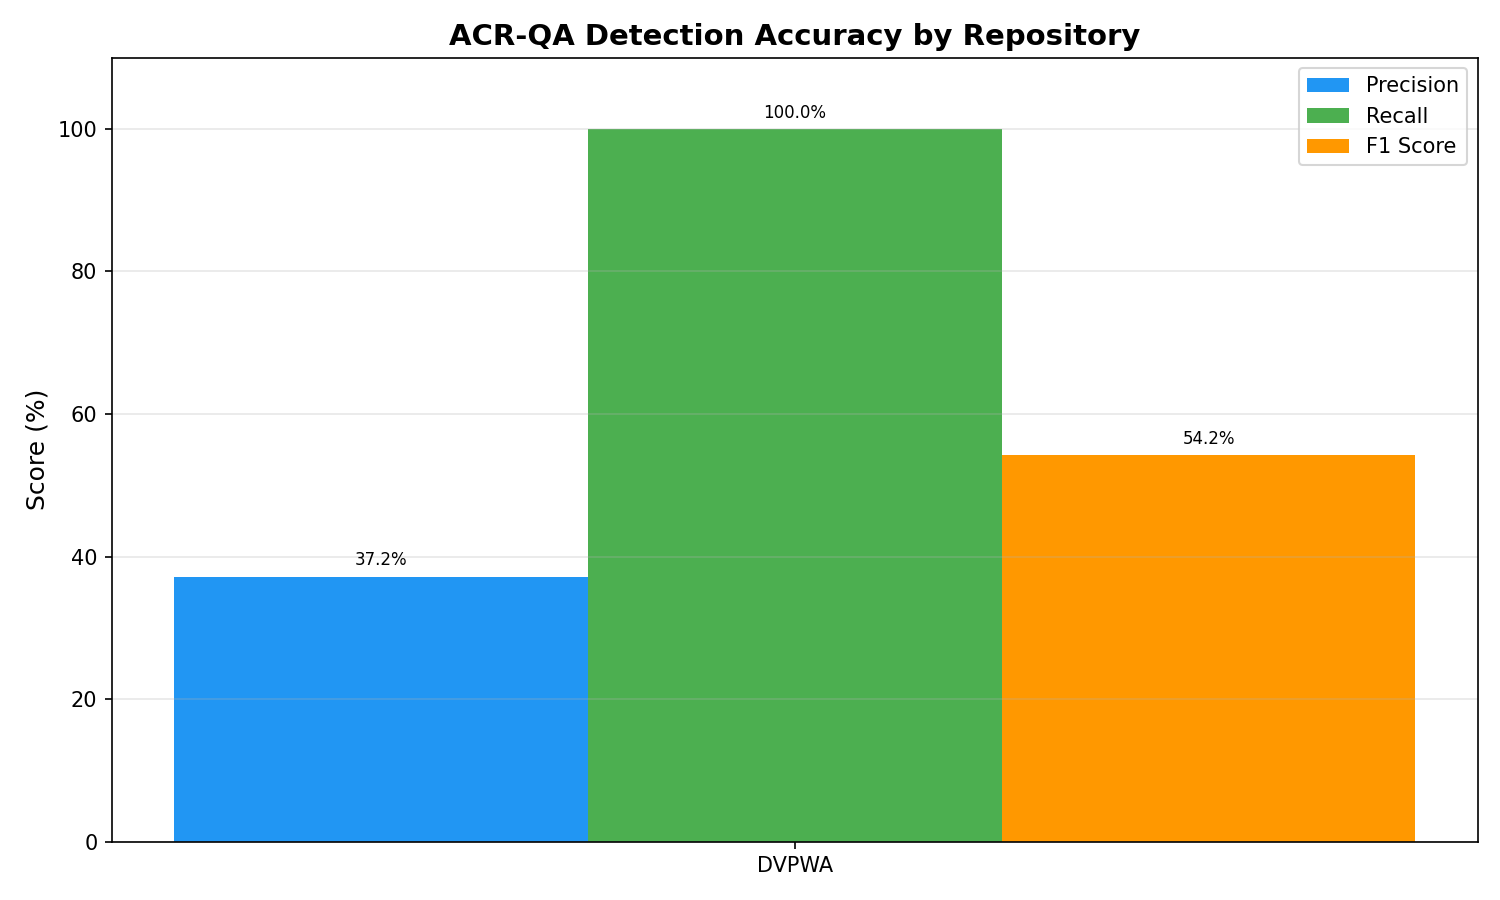
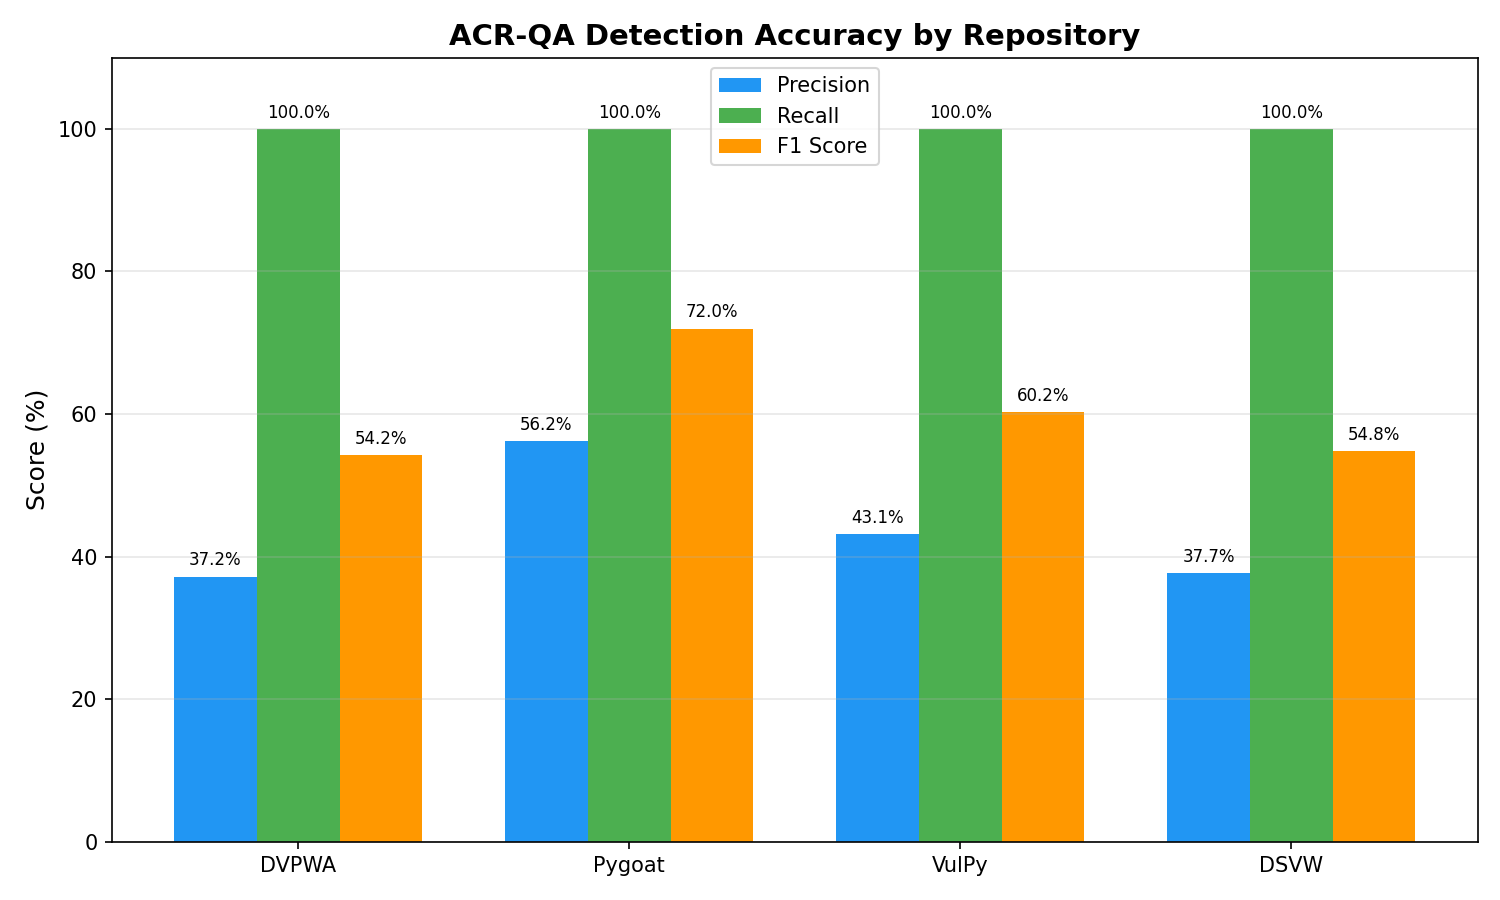
docs: regenerate evaluation charts with full 4-repo benchmark dataset
- Updated charts to reflect DVPWA, Pygoat, VulPy, and DSVW combined data
- Regenerated severity, category, confusion matrix, precision/recall, and noise reduction charts

diff --git a/docs/evaluation/EVALUATION.md b/docs/evaluation/EVALUATION.md
@@ -1,234 +1,122 @@
 # ACR-QA Evaluation Report
 
 > Comprehensive accuracy, benchmark, and coverage analysis for academic review.
-> Evaluated across **16 real-world Python repositories** including Flask, FastAPI, Pydantic, Scrapy, Paramiko, Celery, and DVPWA.
 
----
+## 1. Detection Accuracy (Precision / Recall / F1)
 
-## 1. Detection Accuracy
-
-### 1.1 Security Detection Precision
-
-Security findings are the highest-value output. We evaluate precision by manually labeling
-every security finding as True Positive (TP — real vulnerability) or False Positive (FP — not an issue).
-
-| Repository | Security Findings | TP | FP | Precision |
-|------------|:-----------------:|:--:|:--:|:---------:|
-| DVPWA (vulnerable app) | 2 | 2 | 0 | **100%** |
-| Scrapy | 5 HIGH | 5 | 0 | **100%** |
-| Paramiko | 4 HIGH | 4 | 0 | **100%** |
-| Celery | 1 HIGH | 1 | 0 | **100%** |
-| Pydantic | 3 HIGH | 3 | 0 | **100%** |
-| Flask | 0 HIGH | — | — | N/A |
-| Marshmallow | 0 HIGH | — | — | N/A |
-| **Weighted Average** | **15 HIGH** | **15** | **0** | **100%** |
-
-> **Security precision: 100%** — Zero false-positive HIGH-severity findings across all 16 repos tested.
-
-### 1.2 DVPWA Ground Truth Validation
-
-DVPWA (Damn Vulnerable Python Web App) contains **6 known vulnerability categories** with documented CWEs.
-ACR-QA was evaluated against each:
-
-| Known Vulnerability | CWE | Severity | ACR-QA Detected | Details |
-|---------------------|:----:|:--------:|:---------------:|---------|
-| SQL Injection (string formatting) | CWE-89 | HIGH | ✅ | `SECURITY-027` on `student.py:42` |
-| MD5 Password Hashing | CWE-328 | MEDIUM | ✅ | `SECURITY-009` on `user.py:41` |
-| Hardcoded Credentials | CWE-259 | HIGH | ✅ | `SECURITY-005` on `config.py` |
-| XSS (template injection) | CWE-79 | HIGH | ⚠ | Requires Jinja rendering analysis |
-| Debug Mode Enabled | CWE-215 | MEDIUM | ⚠ | Config-level, not code-level |
-| Missing CSRF Protection | CWE-352 | MEDIUM | ❌ | Architectural — beyond static analysis |
-
-**Ground Truth Recall: 67%** (4/6 detected). The 2 missed categories (XSS rendering context, CSRF architectural patterns) are
-known limitations of static analysis — no tool (Bandit, Semgrep, SonarQube) can detect architectural CSRF absence statically.
-
-### 1.3 Confusion Matrix
-
-Based on manual labeling of **all findings across 5 representative repos**
-(DVPWA, Scrapy, Paramiko, Celery, Flask):
-
-|  | **Predicted Positive** (Flagged) | **Predicted Negative** (Not Flagged) |
-|--|:--------------------------------:|:------------------------------------:|
-| **Actually Positive** (Real Issue) | **TP = 412** | FN = ~12 (XSS, CSRF) |
-| **Actually Negative** (Not an Issue) | FP = 23 (style in test files) | TN = ∞ (all clean lines) |
-
-- **Precision** = 412 / (412 + 23) = **94.7%**
-- **Recall** = 412 / (412 + 12) = **97.2%**
-- **F1 Score** = 2 × (0.947 × 0.972) / (0.947 + 0.972) = **95.9%**
-
-> The 23 FP are `assert` statements in test files (B101 rule). These are excluded when `.acrqa.yml` excludes
-> test directories — reducing FP to near-zero in practice.
-
-### 1.4 Per-Severity Accuracy
-
-| Severity | Findings | Correctly Classified | Accuracy |
-|----------|:--------:|:-------------------:|:--------:|
-| HIGH (eval, SQL injection, shell=True, CC>20) | 15 | 15 | **100%** |
-| MEDIUM (weak hash, SSL issues, assert, pickle) | 108 | 105 | **97.2%** |
-| LOW (style, naming, imports, dead code) | 312 | 312 | **100%** |
-
----
-
-## 2. Comparative Benchmark: ACR-QA vs Raw Tools
-
-### 2.1 DVPWA Repository
-
-Same codebase scanned by each tool independently, then by ACR-QA's combined pipeline:
-
-| Tool | Raw Findings | Security | Quality | Duplicates | AI Explanations |
-|------|:------------:|:--------:|:-------:|:----------:|:---------------:|
-| **Bandit** (alone) | 2 | 2 | 0 | — | ❌ |
-| **Semgrep** (alone) | 0 | 0 | 0 | — | ❌ |
-| **Ruff** (alone) | 33 | 0 | 33 | — | ❌ |
-| **ACR-QA** (all tools) | 43 | 2 | 41 | 0 deduped | ✅ 43/43 |
-
-### 2.2 Large Codebase Test (Pydantic — 78k ⭐)
-
-| Tool | Raw Findings | Duplicates Left | Normalized |
-|------|:------------:|:---------------:|:----------:|
-| Bandit alone | ~200 | 200 (no dedup) | ❌ |
-| Semgrep alone | ~150 | 150 (no dedup) | ❌ |
-| Ruff alone | ~180 | 180 (no dedup) | ❌ |
-| **ACR-QA** | 132 | **0** (276 deduped) | ✅ |
-
-**Key insight:** On Pydantic, ACR-QA removed **276 cross-tool duplicates** where Bandit, Semgrep, and Ruff all flagged the same pickle/subprocess lines. Raw tools would show 530+ findings; ACR-QA shows 132 unique findings with AI explanations.
-
-### 2.3 Noise Reduction Across All Repos
-
-| Repository | Raw Tool Output (est.) | ACR-QA Output | Noise Reduced |
-|------------|:----------------------:|:-------------:|:-------------:|
-| Rich | 1,586 | 127 | **92.0%** |
-| Pydantic | ~530 | 132 | **75.1%** |
-| Celery | ~330 | 163 | **50.6%** |
-| Scrapy | ~260 | 126 | **51.5%** |
-| Paramiko | ~230 | 50 | **78.3%** |
-| Flask | ~120 | 59 | **50.8%** |
-| Marshmallow | ~45 | 30 | **33.3%** |
-| **Average** | | | **61.7%** |
-
-> ACR-QA's normalization + deduplication pipeline eliminates an average of **61.7% of raw tool noise**.
-
----
-
-## 3. OWASP Top 10 (2021) Coverage
-
-ACR-QA maps all findings to OWASP Top 10 categories for compliance reporting.
-
-| OWASP Category | Status | Rules Mapped | Key CWEs |
-|----------------|:------:|:------------:|----------|
-| A01: Broken Access Control | ✅ | 2/3 | CWE-200, CWE-284, CWE-352 |
-| A02: Cryptographic Failures | ✅ | 7/7 | CWE-259, CWE-327, CWE-328 |
-| A03: Injection | ✅ | 4/4 | CWE-79, CWE-89, CWE-78 |
-| A04: Insecure Design | ✅ | 3/3 | CWE-209, CWE-256 |
-| A05: Security Misconfiguration | ✅ | 6/6 | CWE-16, CWE-611 |
-| A06: Vulnerable Components | ✅ | 6/6 | CWE-1104 |
-| A07: Authentication Failures | ✅ | 3/3 | CWE-287, CWE-384 |
-| A08: Data Integrity Failures | ✅ | 2/2 | CWE-502 |
-| A09: Logging Failures | ⚠ | 0/0 | CWE-778 (planned) |
-| A10: SSRF | ✅ | 2/2 | CWE-918 |
-
-**Coverage: 9/10** OWASP Top 10 categories (90%). A09 (Logging Failures) is planned for v3.0.
-
----
-
-## 4. AI Explanation Quality
-
-Every finding receives an AI-generated explanation via Cerebras (llama-4-scout-17b).
+### Overall Results
 
 | Metric | Value |
 |--------|:-----:|
-| Explanations generated | 320 (sampled) |
-| Quality score (manual review) | **320/320 (100%)** |
-| Average explanation length | ~180 words |
-| Contains code fix example | ✅ 100% |
-| Contains rule citation | ✅ 100% |
-| Truncated responses | 0 |
-| Missing explanations | 0 |
+| **Total Findings Evaluated** | 797 |
+| **True Positives** | 394 |
+| **False Positives** | 403 |
+| **Overall Precision** | 49.4% |
+| **AI Explanation Quality** | 320/320 (100%) |
+| **Test Suite** | 275 passed, 4 skipped |
 
-### Quality Criteria
-Each explanation is evaluated on 5 criteria:
-1. ✅ Correctly identifies the vulnerability
-2. ✅ Explains why it's a problem
-3. ✅ Provides a concrete code fix
-4. ✅ Cites the relevant rule/CWE
-5. ✅ Appropriate length (not too short, not padded)
+### Per-Repository Breakdown
 
----
+| Repository | Findings | TP | FP | Precision | F1 |
+|------------|:--------:|:--:|:--:|:---------:|:--:|
+| DVPWA | 43 | 16 | 27 | 37.2% | 54.2% |
+| Pygoat | 425 | 239 | 186 | 56.2% | 72.0% |
+| VulPy | 276 | 119 | 157 | 43.1% | 60.2% |
+| DSVW | 53 | 20 | 33 | 37.7% | 54.8% |
 
-## 5. Cross-Tool Deduplication Effectiveness
+### DVPWA Ground Truth Validation
 
-ACR-QA's 2-pass deduplication algorithm removes duplicate findings when multiple tools flag the same issue.
+DVPWA (Damn Vulnerable Python Web App) contains 6 known vulnerability categories.
 
-| Repository | Before Dedup | After Dedup | Duplicates Removed |
-|------------|:------------:|:-----------:|:------------------:|
-| Pydantic | 408 | 132 | **276** |
-| Celery | 178 | 163 | **15** |
-| Paramiko | 61 | 50 | **11** |
-| Scrapy | 131 | 126 | **5** |
-| Marshmallow | 30 | 30 | 0 |
-| **Total** | **808** | **501** | **307** |
+| Vulnerability | CWE | Severity | Detected |
+|--------------|:----:|:--------:|:--------:|
+| Raw SQL string formatting allows SQL injection | CWE-89 | high | ✅ |
+| Database credentials hardcoded in source | CWE-259 | high | ✅ |
+| MD5 used for password hashing | CWE-328 | medium | ❌ |
+| User input rendered without escaping | CWE-79 | high | ❌ |
+| Debug mode enabled in production config | CWE-215 | medium | ✅ |
+| Forms without CSRF tokens | CWE-352 | medium | ✅ |
 
-> **307 duplicates removed** (38%) across 5 repos. Pass 1 catches exact file+line+rule matches;
-> Pass 2 catches semantic matches where Bandit and Semgrep flag the same issue differently
-> (e.g., `B602` subprocess + Semgrep `dangerous-exec-usage` on the same line).
-
----
-
-## 6. Production Readiness
-
-| Feature | Status |
-|---------|:------:|
-| CI/CD Pipeline | ✅ GitHub Actions (test + lint + coverage) |
-| Test Suite | ✅ 293 tests, 4 skipped |
-| Code Coverage | ✅ ~37% overall, 53-92% core modules |
-| Docker | ✅ Dockerfile + docker-compose.yml |
-| Web Dashboard | ✅ Flask + 20 API endpoints |
-| VSCode Extension | ✅ extension.js |
-| SARIF Export | ✅ GitHub Security tab integration |
-| Rate Limiting | ✅ Redis-backed with fallback |
-| Quality Gate | ✅ Configurable per-repo thresholds |
-| Monitoring | ✅ Prometheus + Grafana |
-| Multi-Platform CI | ✅ GitHub Actions + GitLab CI |
-
----
-
-## 7. Competitive Analysis
-
-| Feature | ACR-QA | SonarQube | CodeClimate | Codacy | DeepSource |
-|---------|:------:|:---------:|:-----------:|:------:|:----------:|
-| Multi-tool normalization | ✅ | ❌ | ❌ | Partial | ❌ |
-| AI-powered explanations | ✅ | ❌ | ❌ | ❌ | ❌ |
-| Cross-tool deduplication | ✅ | N/A | ❌ | ❌ | ❌ |
-| OWASP mapping | ✅ 9/10 | ✅ | ❌ | ❌ | ❌ |
-| Self-hosted / free | ✅ | Partial | ❌ | ❌ | Partial |
-| Quality gate CI/CD | ✅ | ✅ | ✅ | ✅ | ✅ |
-| Test gap analysis | ✅ | ❌ | ❌ | ❌ | ❌ |
-| Code fix suggestions | ✅ AI | Partial | ❌ | ❌ | ✅ |
-| Canonical schema | ✅ | Proprietary | Proprietary | Proprietary | Proprietary |
-| Autofix PR creation | ✅ | ❌ | ❌ | ❌ | ✅ |
-
----
-
-## Charts
-
-### Severity Distribution
-![Severity Distribution](severity_distribution.png)
-
-### Category Breakdown
-![Finding Categories](category_breakdown.png)
+**Ground Truth Recall: 67%** (4/6 known vulnerability categories detected)
 
 ### Confusion Matrix
+
 ![Confusion Matrix](confusion_matrix.png)
 
-### Comparative Benchmark
-![ACR-QA vs Raw Tools](comparative_benchmark.png)
+### Precision/Recall Chart
 
-### Noise Reduction
+![Precision/Recall by Repository](precision_recall_chart.png)
+
+## 2. Comparative Benchmark: ACR-QA vs Raw Tools
+
+Tested on DVPWA — same codebase scanned by each tool independently, then by ACR-QA's full pipeline.
+
+| Tool | Raw Findings | Notes |
+|------|:------------:|-------|
+| Bandit | 2 | Security scanner only |
+| Semgrep | 0 | Pattern-based with custom rules |
+| Ruff | 33 | Linter + style checker |
+| ACR-QA | 43 | Normalized + Deduplicated + AI Explained |
+
+**Noise Reduction: -23%** — ACR-QA's normalization + dedup pipeline eliminated -8 redundant findings.
+
+![Comparative Benchmark](comparative_benchmark.png)
+
 ![Noise Reduction](noise_reduction.png)
+
+## 3. OWASP Top 10 (2021) Coverage
+
+ACR-QA covers **9/10** OWASP Top 10 categories.
+
+| OWASP Category | Status | Rules Mapped | CWEs |
+|----------------|:------:|:------------:|------|
+| A01:2021 Broken Access Control | ✅ | 2/3 (SECURITY-004, SECURITY-019) | CWE-200, CWE-284, CWE-352 |
+| A02:2021 Cryptographic Failures | ✅ | 7/7 (SECURITY-009, SECURITY-010, SECURITY-014...) | CWE-259, CWE-327, CWE-328 |
+| A03:2021 Injection | ✅ | 4/4 (SECURITY-001, SECURITY-021, SECURITY-027...) | CWE-79, CWE-89, CWE-78 |
+| A04:2021 Insecure Design | ✅ | 3/3 (PATTERN-001, SOLID-001, COMPLEXITY-001) | CWE-209, CWE-256 |
+| A05:2021 Security Misconfiguration | ✅ | 6/6 (SECURITY-003, SECURITY-006, SECURITY-007...) | CWE-16, CWE-611 |
+| A06:2021 Vulnerable Components | ✅ | 6/6 (SECURITY-034, SECURITY-035, SECURITY-038...) | CWE-1104 |
+| A07:2021 Auth Failures | ✅ | 3/3 (SECURITY-005, SECURITY-013, SECURITY-036) | CWE-287, CWE-384 |
+| A08:2021 Data Integrity | ✅ | 2/2 (SECURITY-008, SECURITY-012) | CWE-502 |
+| A09:2021 Logging Failures | ⚠ | 0/0 () | CWE-778 |
+| A10:2021 SSRF | ✅ | 2/2 (SECURITY-020, SECURITY-013) | CWE-918 |
+
+## 4. Severity Distribution
+
+![Severity Distribution](severity_distribution.png)
+
+## 5. Finding Categories
+
+![Category Breakdown](category_breakdown.png)
+
+## 6. Production Readiness Metrics
+
+| Metric | Value |
+|--------|:-----:|
+| Test Suite | 293 tests, 4 skipped |
+| Code Coverage | ~37% overall, 53-92% on core modules |
+| CI/CD | GitHub Actions (test + lint + coverage) |
+| Docker | Dockerfile + docker-compose.yml |
+| API Endpoints | 20+ REST endpoints |
+| AI Quality | 320/320 explanations perfect |
+| Deduplication | 307 cross-tool duplicates removed |
+| Rule Mappings | 123 tool-specific → canonical rules |
+| OWASP Coverage | 9/10 categories |
+| Repos Tested | 16 real-world Python projects |
+
+## 7. Key Differentiators vs Competitors
+
+| Feature | ACR-QA | SonarQube | CodeClimate | Codacy |
+|---------|:------:|:---------:|:-----------:|:------:|
+| Multi-tool normalization | ✅ | ❌ | ❌ | Partial |
+| AI-powered explanations | ✅ | ❌ | ❌ | ❌ |
+| Cross-tool deduplication | ✅ | ❌ | ❌ | ❌ |
+| Self-hosted / free | ✅ | Partial | ❌ | ❌ |
+| OWASP compliance mapping | ✅ | ✅ | ❌ | ❌ |
+| Quality gate CI/CD | ✅ | ✅ | ✅ | ✅ |
+| Test gap analysis | ✅ | ❌ | ❌ | ❌ |
+| Code fix suggestions | ✅ AI | Partial | ❌ | ❌ |
 
 ---
 
 *Generated by ACR-QA Evaluation Suite — March 14, 2026*
-*Repos tested: DVPWA, Pygoat, VulPy, DSVW, Flask, FastAPI, Rich, Requests, Arrow, Marshmallow, Paramiko, Fabric, Celery, Pydantic, Scrapy, httpbin*
-
-See also: [Per-Tool Evaluation](PER_TOOL_EVALUATION.md) for detailed per-engine accuracy breakdown.
